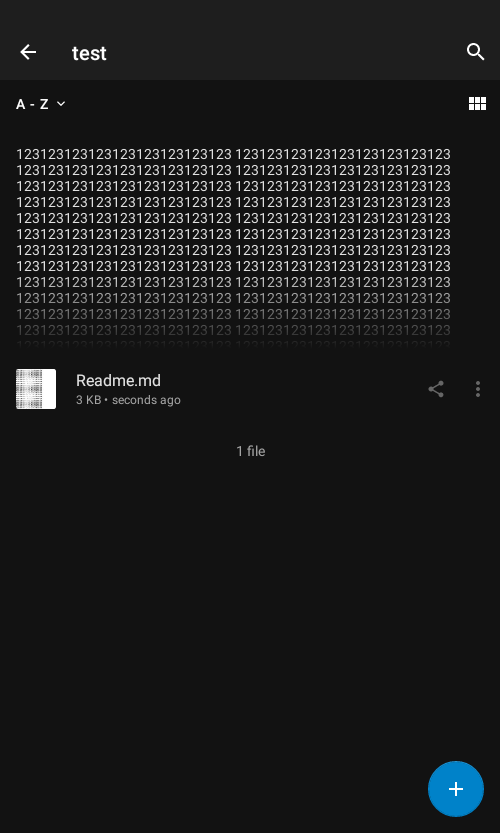
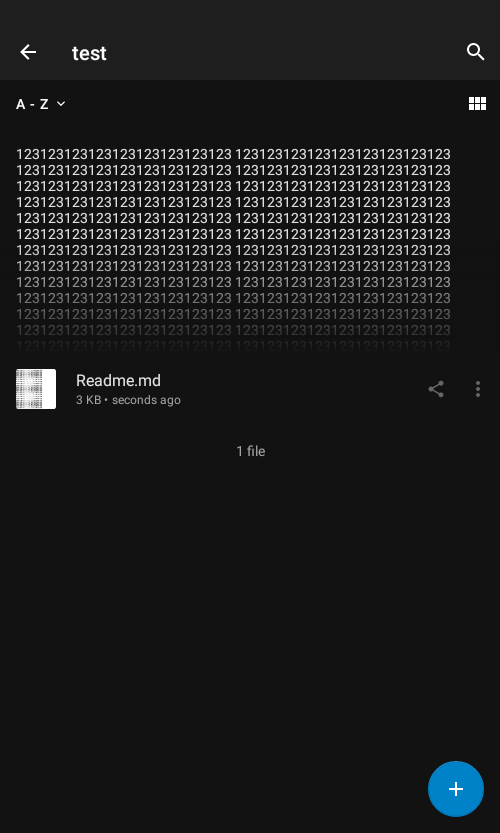
set gradient via imageview for markdown previews
Fixes #6034

diff --git a/src/main/java/com/owncloud/android/ui/adapter/OCFileListAdapter.java b/src/main/java/com/owncloud/android/ui/adapter/OCFileListAdapter.java
@@ -348,17 +348,6 @@ public class OCFileListAdapter extends RecyclerView.Adapter<RecyclerView.ViewHol
 
             PreviewTextFragment.setText(headerViewHolder.headerText, text, null, activity, true, true);
             headerViewHolder.headerView.setOnClickListener(v -> ocFileListFragmentInterface.onHeaderClicked());
-
-            Shader shader = new LinearGradient(0,
-                                               headerViewHolder.headerText.getHeight()-20,
-                                               0,
-                                               headerViewHolder.headerText.getHeight() - 100,
-                                               activity.getResources().getColor(R.color.bg_default),
-                                               activity.getResources().getColor(R.color.text_color),
-                                               Shader.TileMode.CLAMP
-            );
-
-            headerViewHolder.headerText.getPaint().setShader(shader);
         } else {
             OCFileListGridImageViewHolder gridViewHolder = (OCFileListGridImageViewHolder) holder;
 
